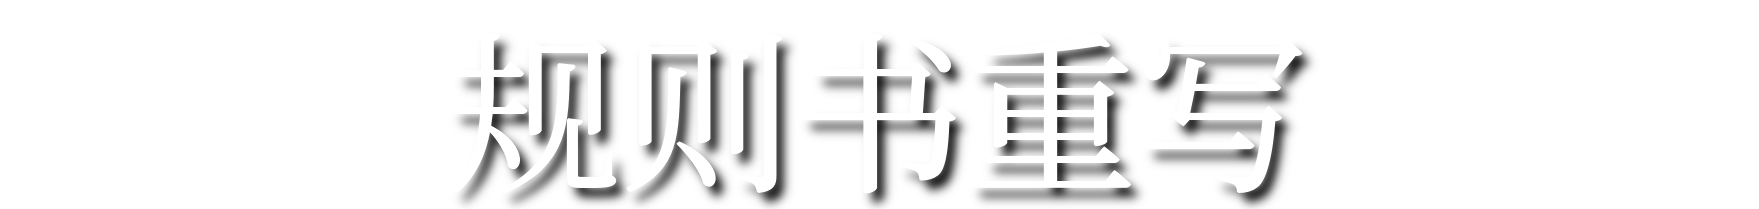
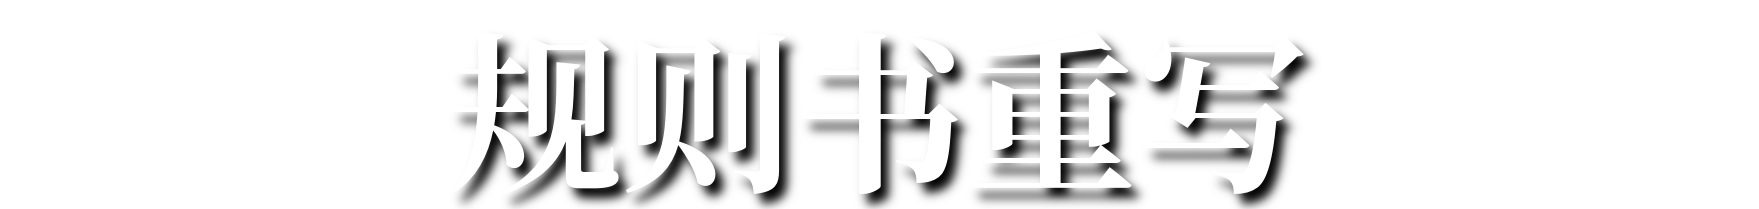
Fix bold font

Changed region(s): [[0.2456, 0.201, 0.7675, 1.0]]

diff --git a/main_cn.tex b/main_cn.tex
@@ -19,6 +19,12 @@
     }
   )
   luaotfload.add_fallback(
+    "cjkfallbackbold",
+    {
+      "[./assets/fonts/NotoSerifCJKsc/NotoSerifCJKsc-Bold.otf]:mode=node"
+    }
+  )
+  luaotfload.add_fallback(
     "cjkfallbackitalic",
     {
       "[./assets/fonts/NotoSerifCJKsc/NotoSerifCJKsc-Regular.otf]:mode=node;slant=0.2"
@@ -30,18 +36,18 @@
   Path = ./assets/fonts/NotoSerifCJKsc/,
   Extension = .otf,
   UprightFont = *-Regular,
-  BoldFont = *-Regular,
+  BoldFont = *-Bold,
   ItalicFont = *-Regular,
-  BoldItalicFont = *-Regular
+  BoldItalicFont = *-Bold
 ]{NotoSerifCJKsc}
 
 \newfontfamily{\cjkserif}[
   Path = ./assets/fonts/NotoSerifCJKsc/,
   Extension = .otf,
   UprightFont = *-Regular,
-  BoldFont = *-Regular,
+  BoldFont = *-Bold,
   ItalicFont = *-Regular,
-  BoldItalicFont = *-Regular
+  BoldItalicFont = *-Bold
 ]{NotoSerifCJKsc}
 
 \newcommand{\subheaderfont}[0]{\cjkserif}
@@ -55,8 +61,9 @@
     BoldFont = *-Bold,
     BoldItalicFont = *-BoldItalic,
     RawFeature={fallback=cjkfallback},
+    BoldFeatures={RawFeature={fallback=cjkfallbackbold}},
     ItalicFeatures={RawFeature={fallback=cjkfallbackitalic}},
-    BoldItalicFeatures={RawFeature={fallback=cjkfallbackitalic}}
+    BoldItalicFeatures={RawFeature={fallback=cjkfallbackbold}}
   ]%
 }
 

diff --git a/assets/fonts/NotoSerifCJKsc/README.md b/assets/fonts/NotoSerifCJKsc/README.md
@@ -1,11 +1,12 @@
 Noto Serif CJK SC
 =================
 
-This directory contains `NotoSerifCJKsc-Regular.otf`, used as the CJK fallback
-font for the Chinese build.
+This directory contains `NotoSerifCJKsc-Regular.otf` and
+`NotoSerifCJKsc-Bold.otf`, used as CJK fonts for the Chinese build.
 
 Source:
 https://github.com/notofonts/noto-cjk/blob/main/Serif/OTF/SimplifiedChinese/NotoSerifCJKsc-Regular.otf
+https://github.com/notofonts/noto-cjk/blob/main/Serif/OTF/SimplifiedChinese/NotoSerifCJKsc-Bold.otf
 
 License:
 SIL Open Font License, Version 1.1.